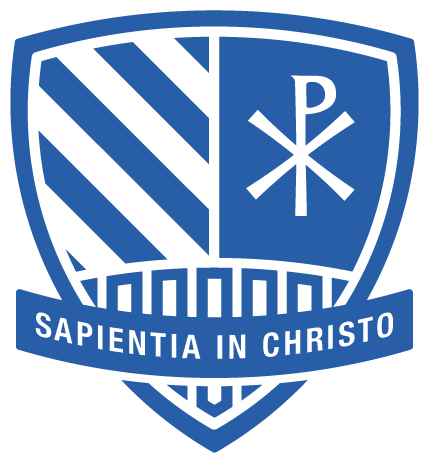
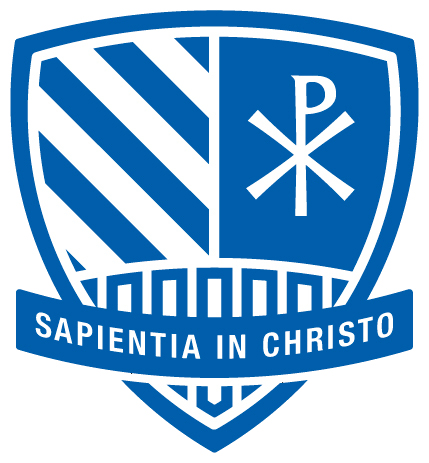
add transparent layers to images

diff --git a/_includes/header.html b/_includes/header.html
@@ -1,4 +1,4 @@
 <header class="container-fluid black">
-  <img src="/img/shield_286_64.jpg" alt="blue logo - sapientia in christo">
+  <img src="/img/shield_286_64.png" alt="blue logo - sapientia in christo">
   <span>Rockhurst High School</span>
 </header>
